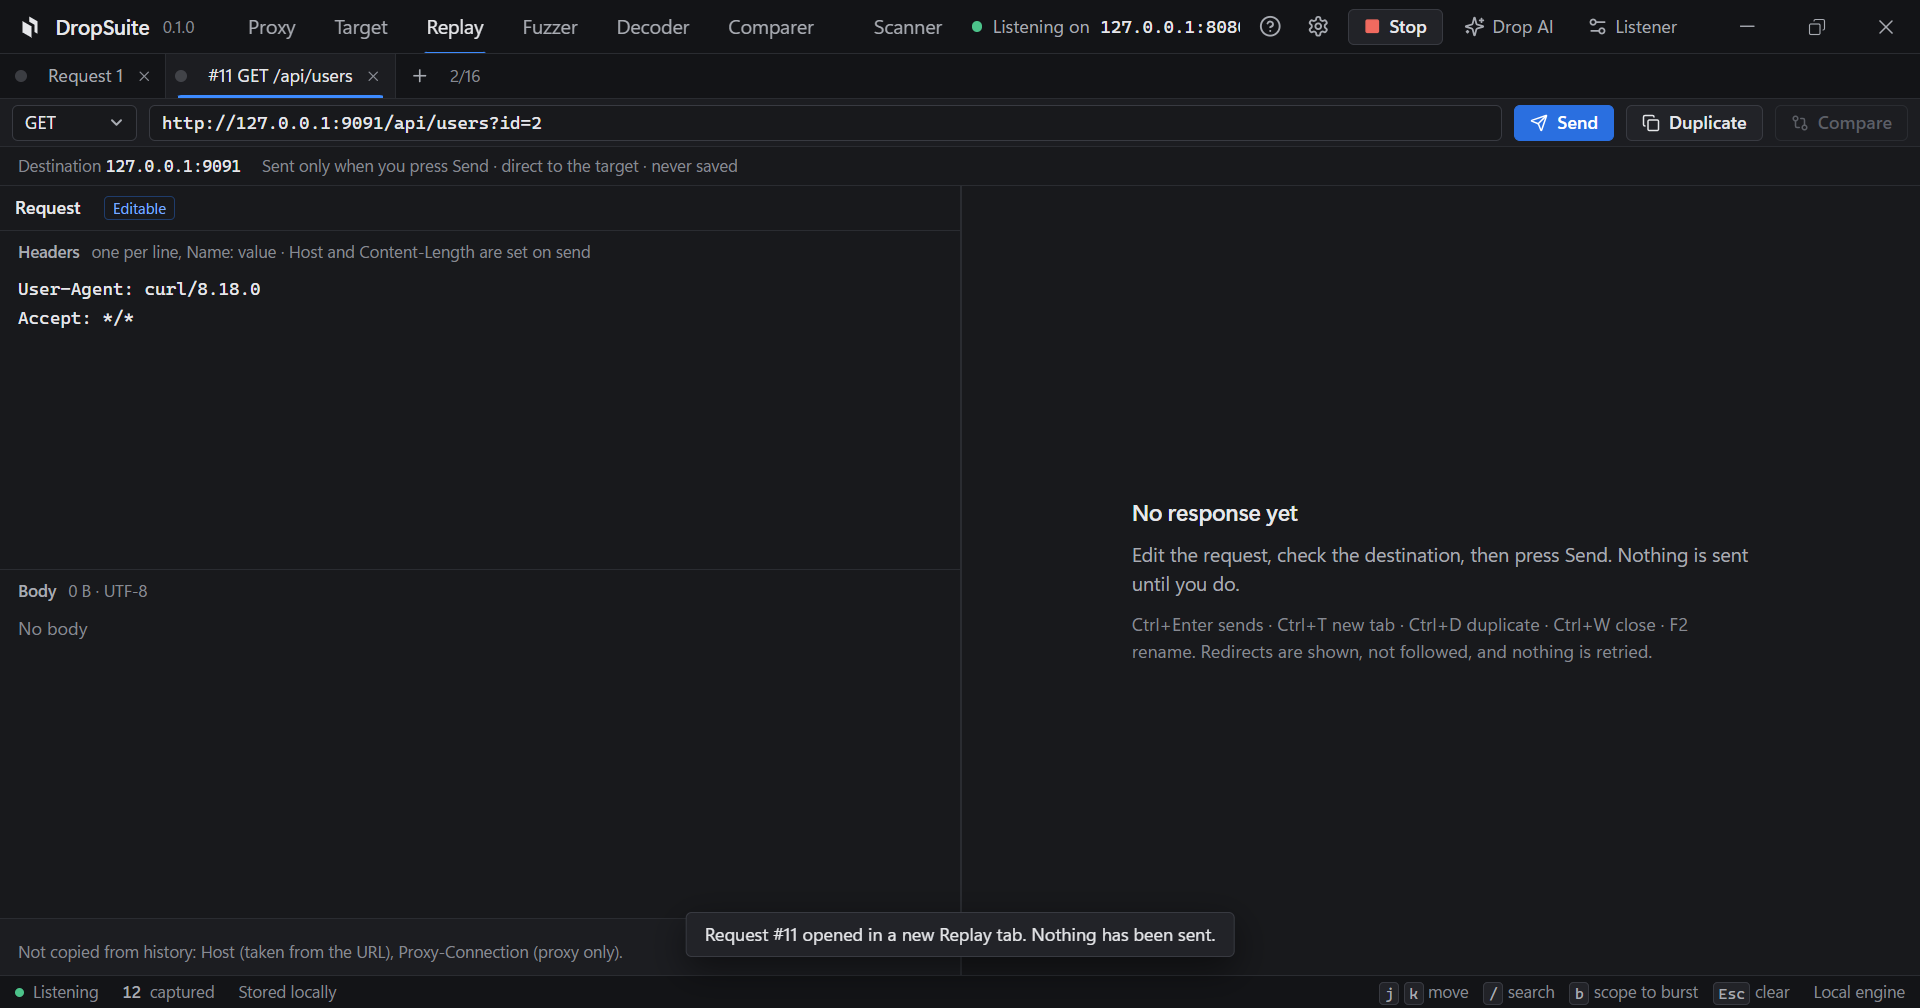
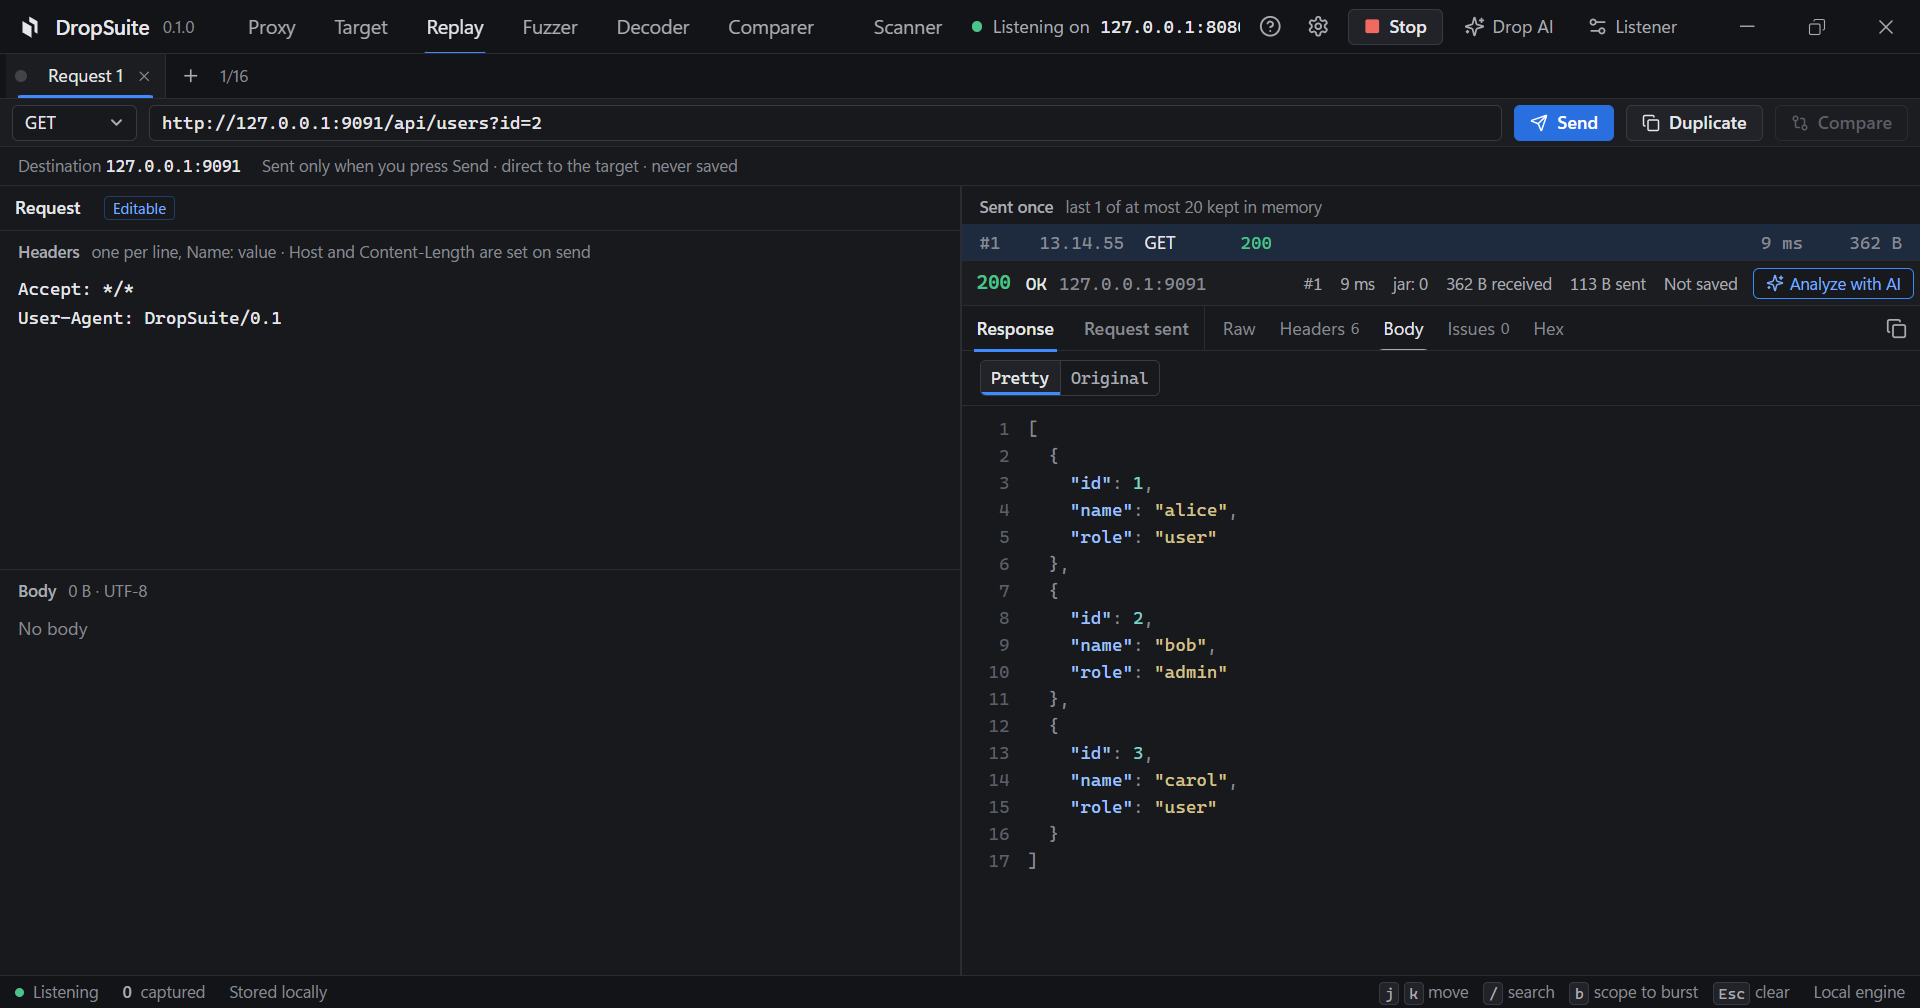
README: tidy the showcase into a 2-column grid with captions
Use an HTML table so the four feature shots render as a clean grid on
GitHub instead of stacking full width, and caption each one. Recapture
the Replay shot with a real response instead of the empty state.

diff --git a/README.md b/README.md
@@ -28,6 +28,7 @@ dependency, so it also runs headless.
 
 <div align="center">
   <img src="docs/assets/shots/proxy-history.png" alt="DropSuite proxy history and request inspector" width="900" />
+  <br /><sub>HTTP history with the request and response inspector</sub>
 </div>
 
 ## Contents
@@ -75,13 +76,28 @@ before anything is sent, and requests go straight to your endpoint, never throug
 **Settings.** A dark and a light theme, optional update checks against GitHub, and one click to the
 local log and data folders, all in one panel.
 
-<div align="center">
-  <img src="docs/assets/shots/scanner.png" alt="Passive scanner findings" width="440" />
-  <img src="docs/assets/shots/replay.png" alt="Replay editor and response" width="440" />
-  <br/>
-  <img src="docs/assets/shots/target-sitemap.png" alt="Target site map" width="440" />
-  <img src="docs/assets/shots/fuzzer.png" alt="Fuzzer attack setup" width="440" />
-</div>
+<table>
+  <tr>
+    <td width="50%" align="center">
+      <img src="docs/assets/shots/scanner.png" alt="Passive scanner findings" width="100%" />
+      <br /><sub><b>Scanner</b>: passive findings by type and severity</sub>
+    </td>
+    <td width="50%" align="center">
+      <img src="docs/assets/shots/replay.png" alt="Replay editor and response" width="100%" />
+      <br /><sub><b>Replay</b>: edit a request, resend, compare responses</sub>
+    </td>
+  </tr>
+  <tr>
+    <td width="50%" align="center">
+      <img src="docs/assets/shots/target-sitemap.png" alt="Target site map" width="100%" />
+      <br /><sub><b>Target</b>: site map, scope, match and replace</sub>
+    </td>
+    <td width="50%" align="center">
+      <img src="docs/assets/shots/fuzzer.png" alt="Fuzzer attack setup" width="100%" />
+      <br /><sub><b>Fuzzer</b>: mark positions, Sniper or Cluster bomb</sub>
+    </td>
+  </tr>
+</table>
 
 ## Install
 
